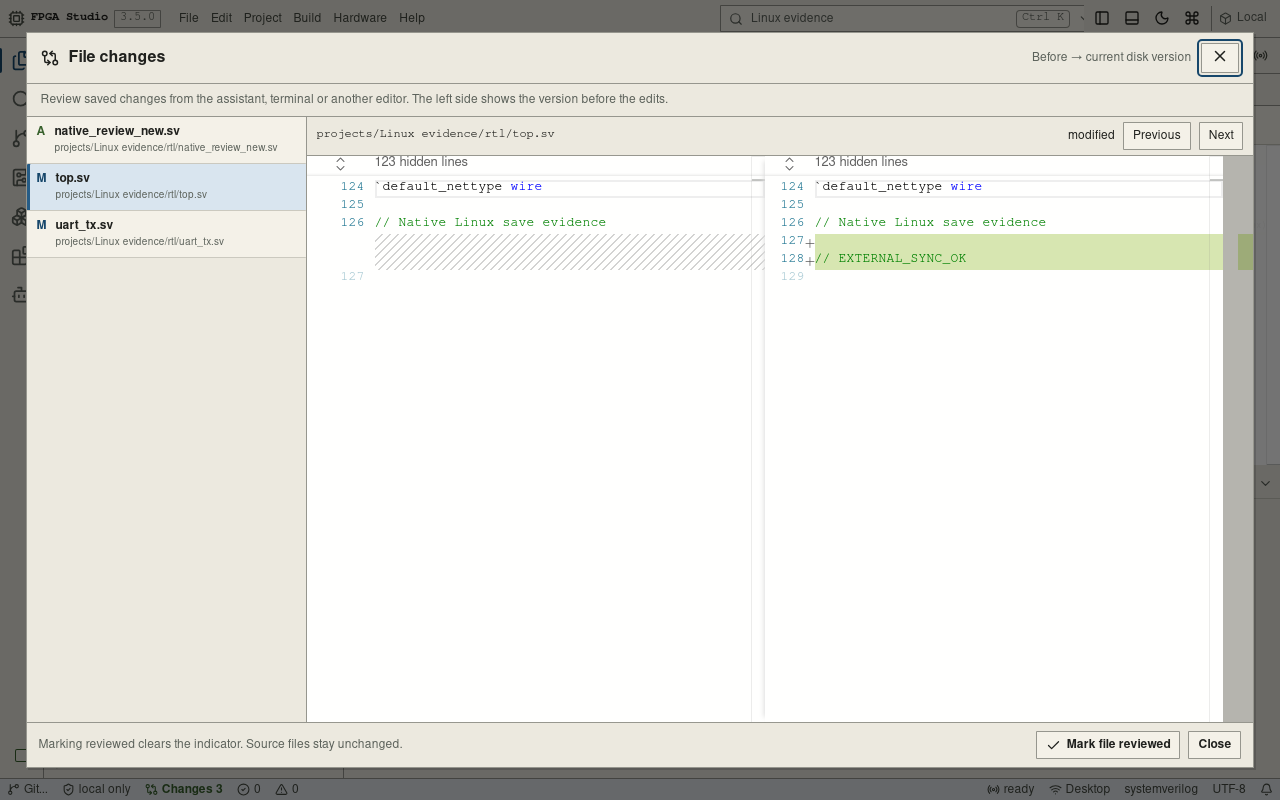
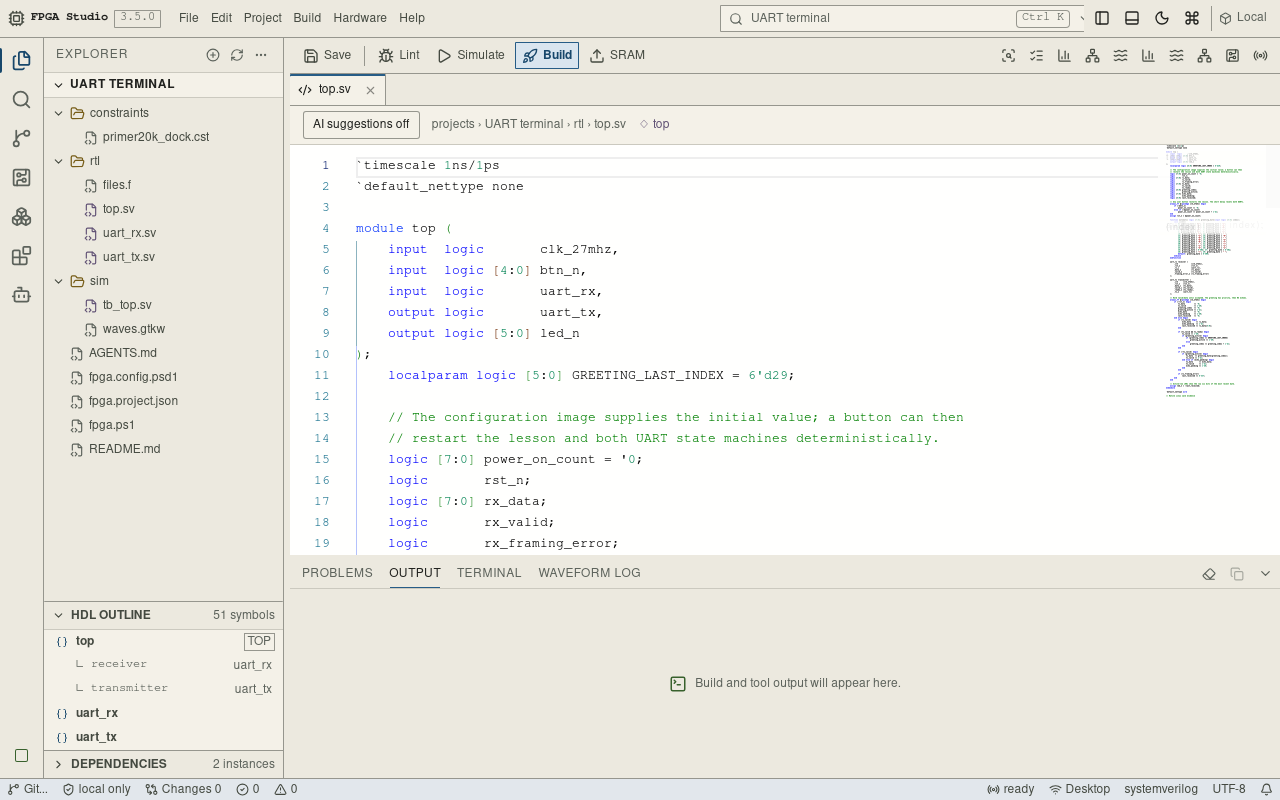
Present the complete workspace with current native screenshots

diff --git a/scripts/test-linux-desktop.py b/scripts/test-linux-desktop.py
@@ -195,7 +195,7 @@ def main():
                 assert len(invoke('list_hdl_patterns', {'root': root})) >= 50
                 assert all(p['valid'] for p in invoke('list_plugins', {'root': root}))
                 passed('Bundled boards, HDL patterns and plugins loaded')
-                created = invoke('create_project', {'root': root, 'name': 'Linux evidence', 'location': '', 'templateId': 'uart_terminal', 'displayName': 'Linux evidence', 'boardId': 'tang_primer_20k'})
+                created = invoke('create_project', {'root': root, 'name': 'UART terminal', 'location': '', 'templateId': 'uart_terminal', 'displayName': 'UART terminal', 'boardId': 'tang_primer_20k'})
                 project = created['projectPath']
                 parameters = {'root': root, 'project': project}
                 path = project + '/rtl/top.sv'
@@ -313,6 +313,12 @@ def main():
                 def drag(selector, dx, dy):
                     rect = js("const r=document.querySelector(arguments[0]).getBoundingClientRect(); return {x:Math.round(r.x+r.width/2),y:Math.round(r.y+r.height/2)}", [selector])
                     request('POST', prefix + '/actions', {'actions':[{'type':'pointer','id':'panel-mouse','parameters':{'pointerType':'mouse'},'actions':[{'type':'pointerMove','duration':0,**rect},{'type':'pointerDown','button':0},{'type':'pointerMove','duration':300,'x':rect['x']+dx,'y':rect['y']+dy},{'type':'pointerUp','button':0}]}]})
+                # General product screenshots, before test commands or file edits.
+                screenshot('native-overview-dark.png')
+                press('\ue009','\ue008','l')
+                time.sleep(.3)
+                screenshot('native-overview-light.png')
+                press('\ue009','\ue008','l')
                 old_height = js("return document.querySelector('.bottom-dock').getBoundingClientRect().height")
                 drag('.resize-bottom',0,-90)
                 new_height = js("return document.querySelector('.bottom-dock').getBoundingClientRect().height")

diff --git a/README.md b/README.md
@@ -1,5 +1,13 @@
 # Tang FPGA Studio
 
+[![Tests](https://github.com/atmarachchige0081/Tang-FPGA-Studio/actions/workflows/quality-gates.yml/badge.svg)](https://github.com/atmarachchige0081/Tang-FPGA-Studio/actions/workflows/quality-gates.yml)
+[![Ubuntu](https://github.com/atmarachchige0081/Tang-FPGA-Studio/actions/workflows/linux.yml/badge.svg)](https://github.com/atmarachchige0081/Tang-FPGA-Studio/actions/workflows/linux.yml)
+[![Windows](https://github.com/atmarachchige0081/Tang-FPGA-Studio/actions/workflows/windows-package.yml/badge.svg)](https://github.com/atmarachchige0081/Tang-FPGA-Studio/actions/workflows/windows-package.yml)
+[![Python](https://img.shields.io/badge/Python-3776AB?logo=python&logoColor=white)](ide/)
+[![Rust](https://img.shields.io/badge/Rust-000000?logo=rust&logoColor=white)](studio/src-tauri/)
+[![Tauri](https://img.shields.io/badge/Tauri-24C8D8?logo=tauri&logoColor=black)](studio/)
+[![License: MIT](https://img.shields.io/badge/License-MIT-blue.svg)](LICENSE)
+
 **Arduino-style simplicity for FPGA development.**
 
 Pick a Tang board, open an example, and take your design from code to real
@@ -13,7 +21,7 @@ Free and open source. Available for Windows and Ubuntu 22.04 or newer.
 [Get started](INSTALL.md) · [Linux installation](docs/LINUX.md) ·
 [Examples](projects/) · [Report an issue](https://github.com/atmarachchige0081/Tang-FPGA-Studio/issues)
 
-![Tang FPGA Studio with a Verilog project and integrated terminal](docs/images/studio-main.png)
+![Tang FPGA Studio with a Verilog project open](docs/images/studio-main.png)
 
 ## From your first LED to your own hardware
 
@@ -44,11 +52,9 @@ make changes using project context. Review saved edits in a native before/after
 view, respond to approvals and steer the conversation as you work. The editor
 and FPGA tools also work without an AI account.
 
-| Review changes before moving on | Work in light or dark |
-|---|---|
-| ![Saved source changes in the native review view](docs/images/studio-file-review.png) | ![The same native workspace in the light theme](docs/images/studio-main-light.png) |
+![Tang FPGA Studio light workspace](docs/images/studio-main-light.png)
 
-Screenshots show the native Linux application with a local example project.
+Screenshots show the native Linux application with a UART example project.
 
 ## Get started
 
